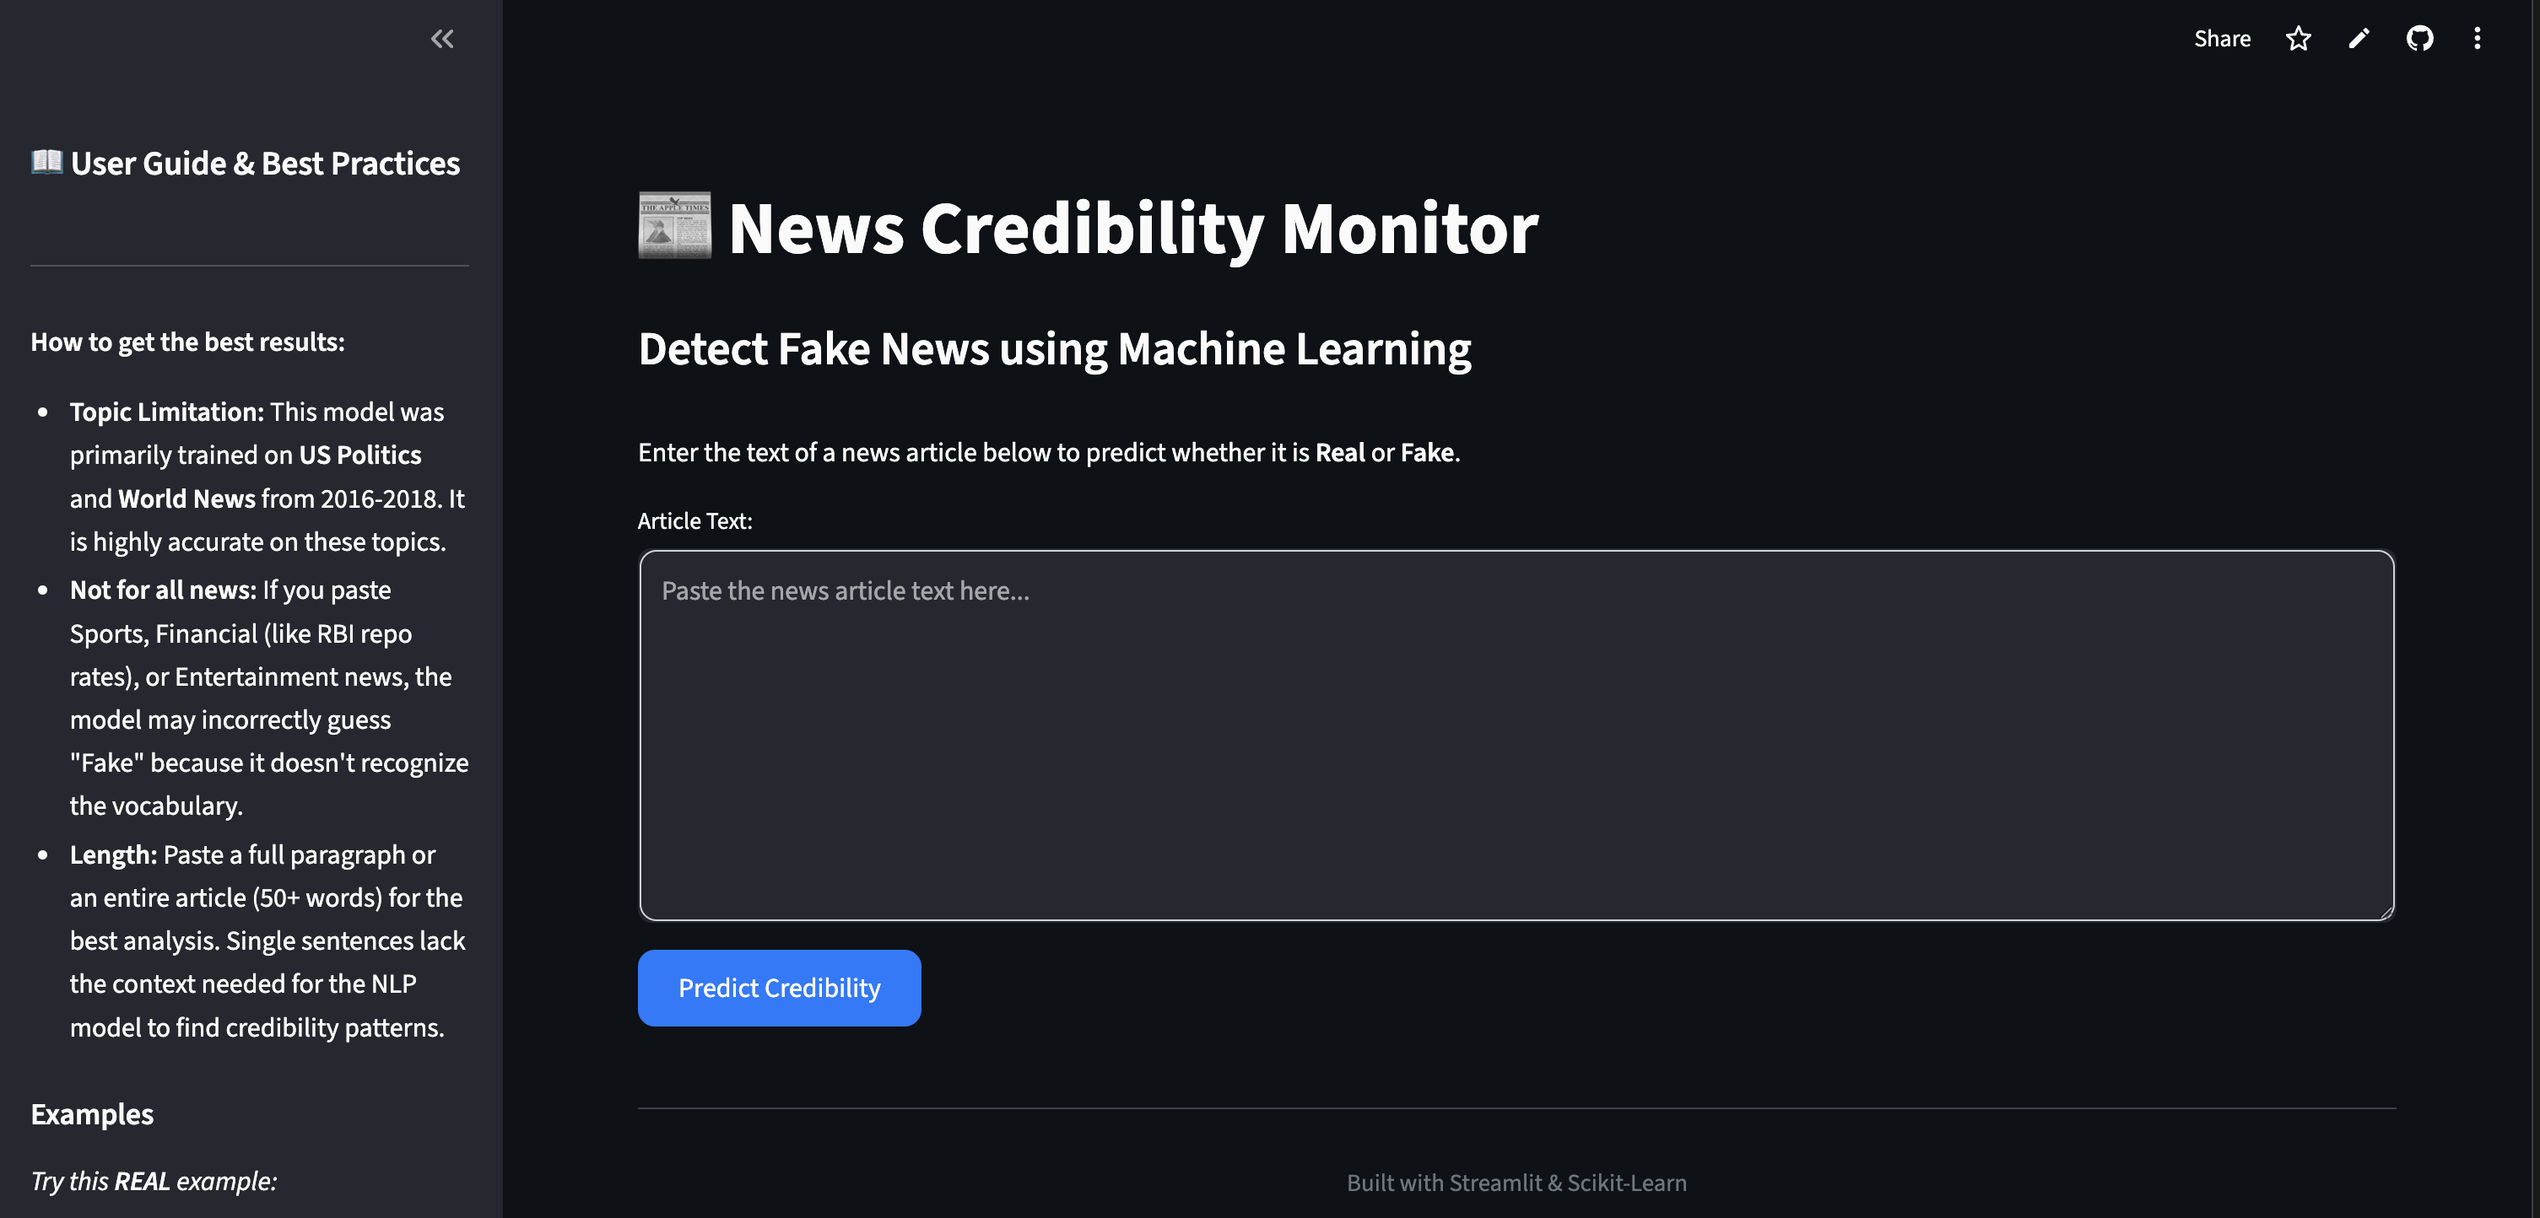
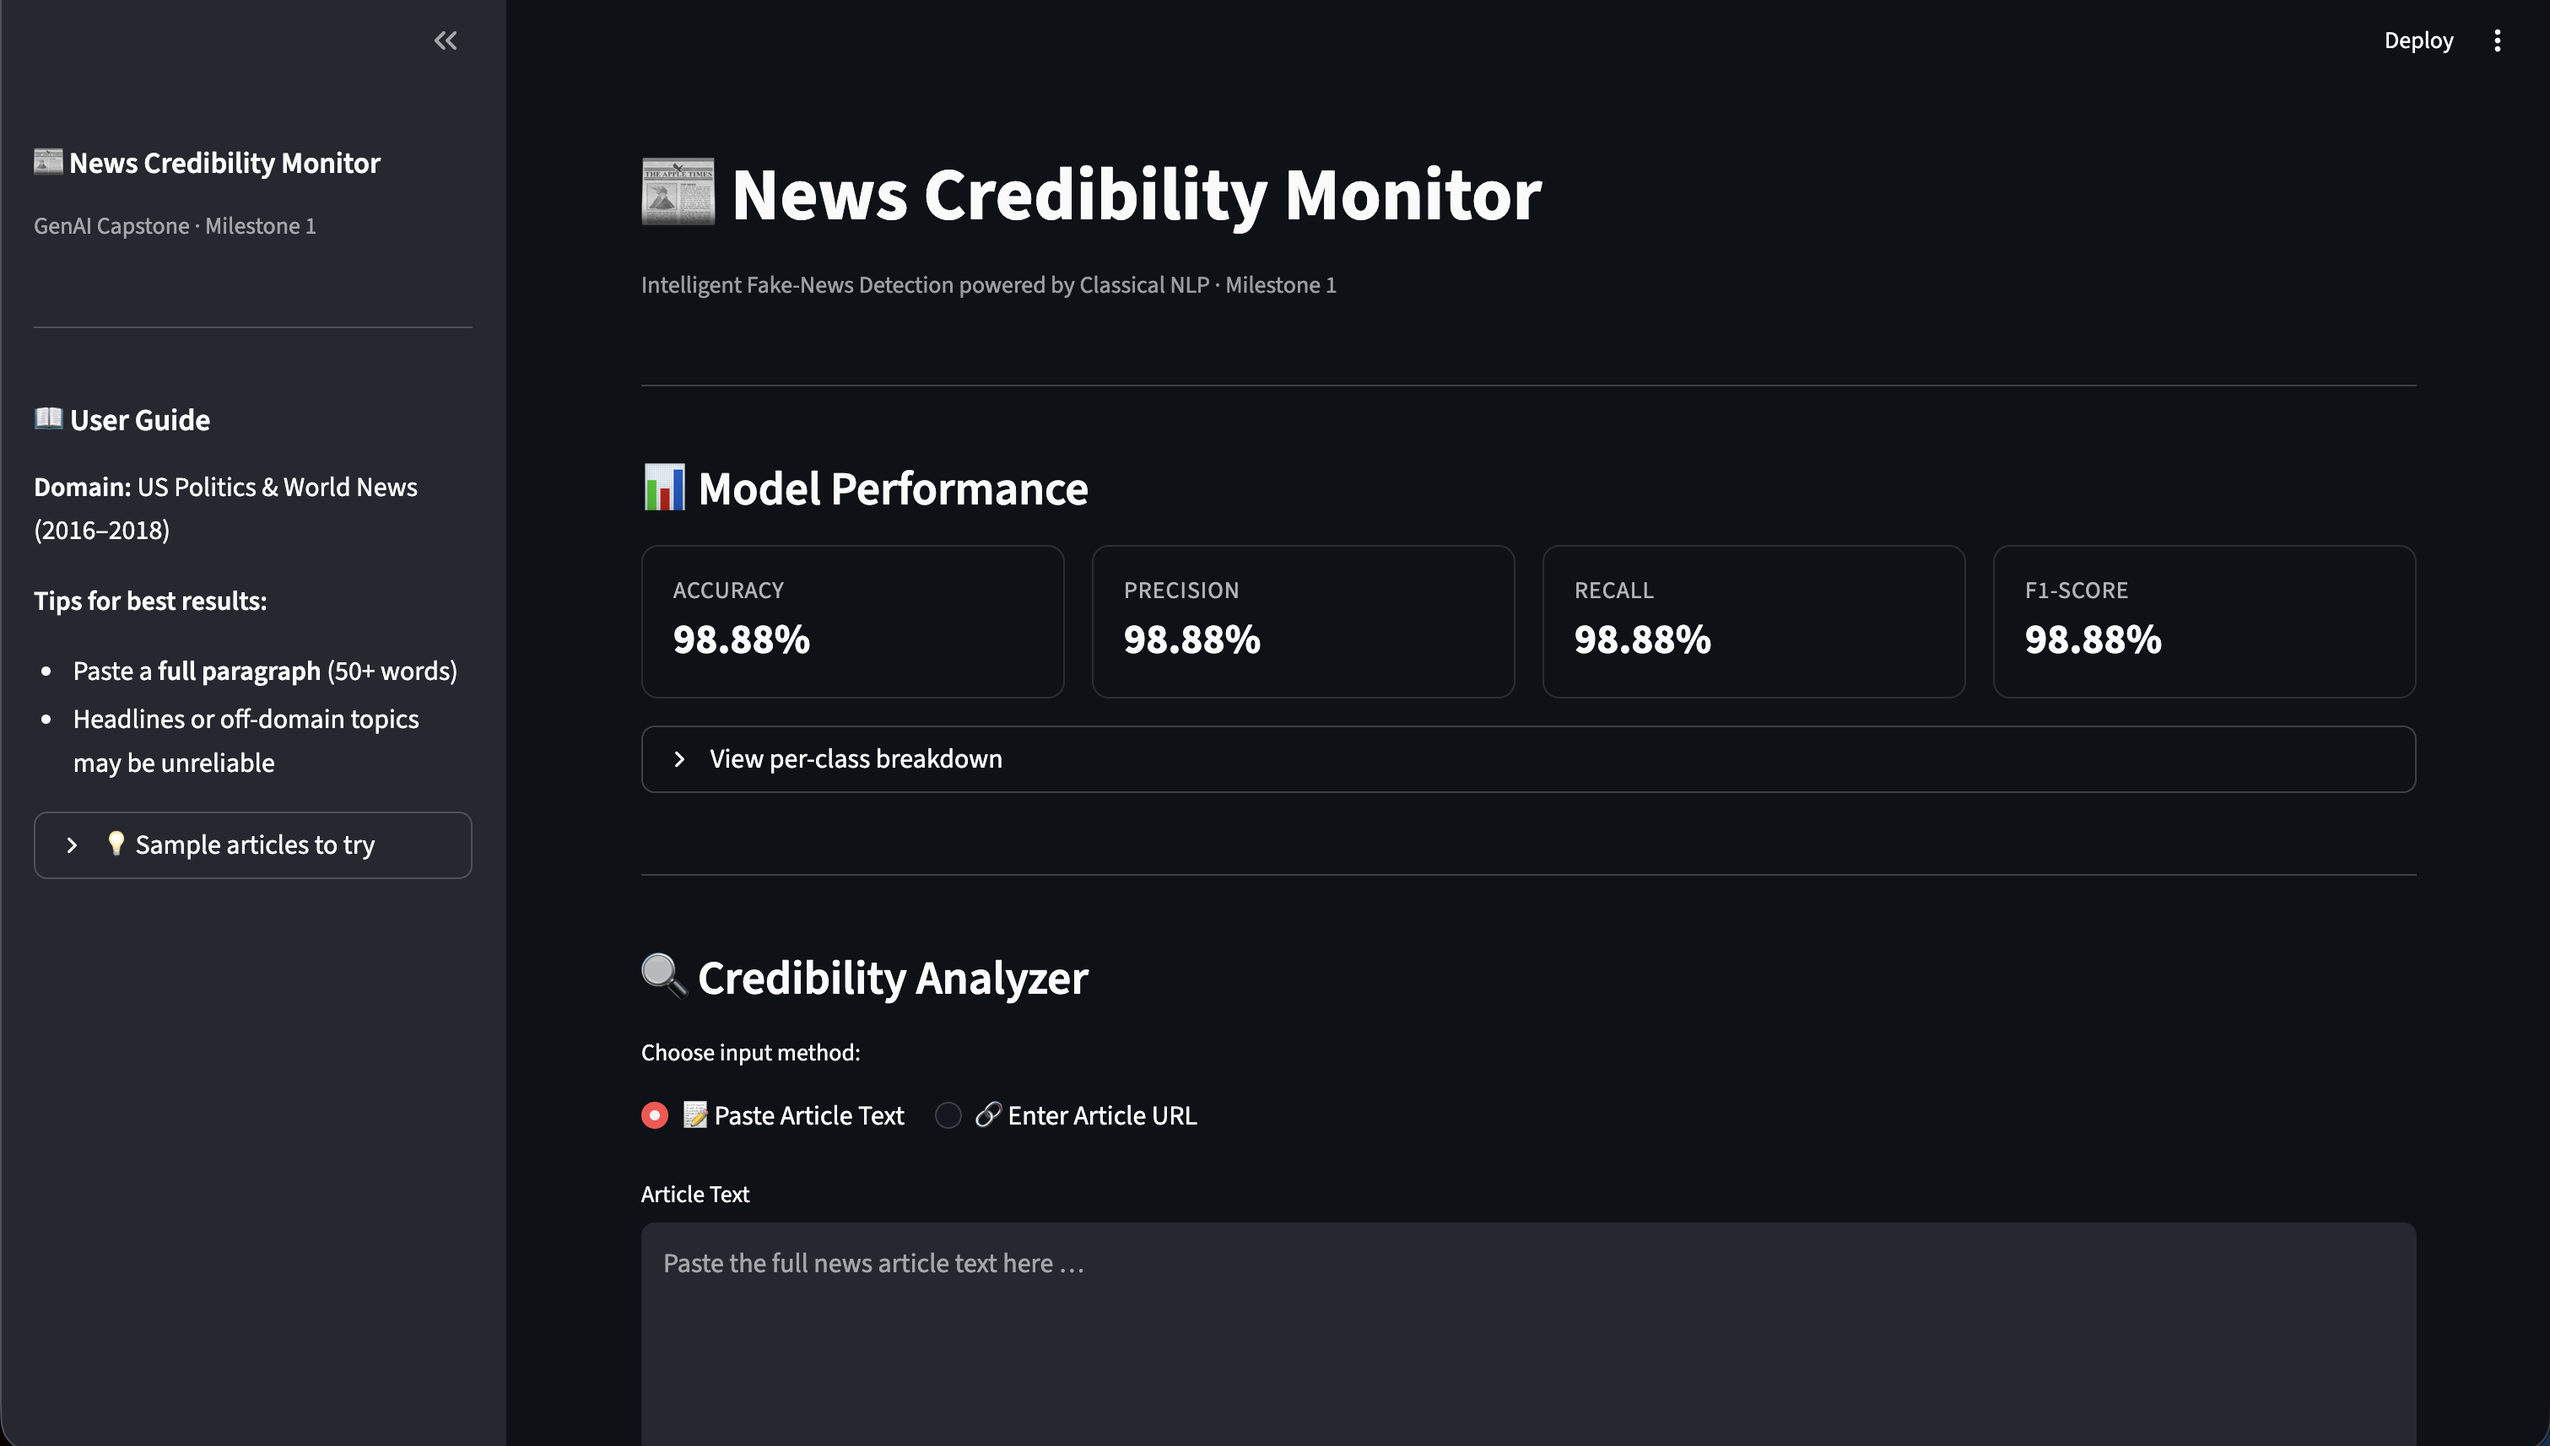
chore: remove Project Roadmap section, improve article text extraction
- Remove 🗺 Project Roadmap sidebar section and associated CSS
- Improve scrape_article with multi-strategy extraction (article tag,
  common content divs, all paragraphs, body text fallback)
- Lower paragraph length threshold from 40 to 20 chars
- Add Accept/Accept-Language headers for better compatibility
- Update UI screenshot

diff --git a/app.py b/app.py
@@ -1,4 +1,5 @@
 import os
+import re
 import sys
 import json
 
@@ -135,18 +136,7 @@ st.markdown(
     section[data-testid="stSidebar"] .stMarkdown h2 {
         font-size: 1.1rem !important;
     }
-    .roadmap-badge {
-        display: inline-block;
-        padding: 2px 10px;
-        border-radius: 12px;
-        font-size: 0.72rem;
-        font-weight: 700;
-        text-transform: uppercase;
-        letter-spacing: 0.5px;
-        margin-left: 4px;
-    }
-    .badge-active  { background: #22c55e25; color: #22c55e; border: 1px solid #22c55e50; }
-    .badge-upcoming { background: #8b5cf625; color: #a78bfa; border: 1px solid #a78bfa50; }
+
     </style>
     """,
     unsafe_allow_html=True,
@@ -193,28 +183,64 @@ def scrape_article(url: str) -> str:
                 "Mozilla/5.0 (Macintosh; Intel Mac OS X 10_15_7) "
                 "AppleWebKit/537.36 (KHTML, like Gecko) "
                 "Chrome/120.0.0.0 Safari/537.36"
-            )
+            ),
+            "Accept": "text/html,application/xhtml+xml,application/xml;q=0.9,*/*;q=0.8",
+            "Accept-Language": "en-US,en;q=0.9",
         }
-        resp = requests.get(url.strip(), headers=headers, timeout=10)
+        resp = requests.get(url.strip(), headers=headers, timeout=15)
         resp.raise_for_status()
         soup = BeautifulSoup(resp.text, "html.parser")
 
-        for tag in soup(["script", "style", "nav", "header", "footer", "aside", "form"]):
+        # Remove non-content elements
+        for tag in soup(["script", "style", "nav", "header", "footer",
+                         "aside", "form", "iframe", "noscript"]):
             tag.decompose()
 
+        paragraphs = []
+
+        # Strategy 1: Look for <article> tag
         article = soup.find("article")
         if article:
             paragraphs = article.find_all("p")
-        else:
+
+        # Strategy 2: Common news-site content containers
+        if not paragraphs:
+            content_selectors = [
+                "div.article-body", "div.story-body", "div.article-content",
+                "div.post-content", "div.entry-content", "div.article__body",
+                "div.story-content", "div.content-body", "div.article-text",
+                "section.article-body", "div[itemprop='articleBody']",
+                "div.caas-body",  # Yahoo News
+                "div.ssrcss-11r1t4e-RichTextComponentWrapper",  # BBC
+            ]
+            for selector in content_selectors:
+                container = soup.select_one(selector)
+                if container:
+                    paragraphs = container.find_all("p")
+                    if paragraphs:
+                        break
+
+        # Strategy 3: Fall back to all <p> tags
+        if not paragraphs:
             paragraphs = soup.find_all("p")
 
+        # Join paragraph text — lower threshold to capture shorter paragraphs
         text = " ".join(
             p.get_text(strip=True)
             for p in paragraphs
-            if len(p.get_text(strip=True)) > 40
+            if len(p.get_text(strip=True)) > 20
         )
+
+        # Strategy 4: If still empty, try extracting visible text from body
+        if not text:
+            body = soup.find("body")
+            if body:
+                text = body.get_text(separator=" ", strip=True)
+                # Basic cleanup of extra whitespace
+                text = re.sub(r'\s+', ' ', text).strip()
+
         return text if text else ""
-    except Exception:
+    except Exception as e:
         return ""
 
 
@@ -243,35 +269,7 @@ with st.sidebar:
     st.caption("GenAI Capstone · Milestone 1")
     st.markdown("---")
 
-    # ── Project Roadmap ──
-    st.markdown("### 🗺 Project Roadmap")
 
-    st.markdown(
-        '**Milestone 1** <span class="roadmap-badge badge-active">Active</span>',
-        unsafe_allow_html=True,
-    )
-    st.markdown(
-        """
-        Classical NLP Pipeline (Scikit-Learn)
-        - TF-IDF Vectorization · 10k features · bigrams
-        - Logistic Regression · balanced class weights
-        - Streamlit deployment · confidence scoring
-        """
-    )
-
-    st.markdown(
-        '**Milestone 2** <span class="roadmap-badge badge-upcoming">Upcoming</span>',
-        unsafe_allow_html=True,
-    )
-    st.markdown(
-        """
-        Agentic AI Fact-Checker (LangGraph)
-        - Multi-agent autonomous verification
-        - LLM-powered claim extraction
-        - Real-time source credibility scoring
-        """
-    )
-    st.markdown("---")
 
     # ── User Guide ──
     st.markdown("### 📖 User Guide")
